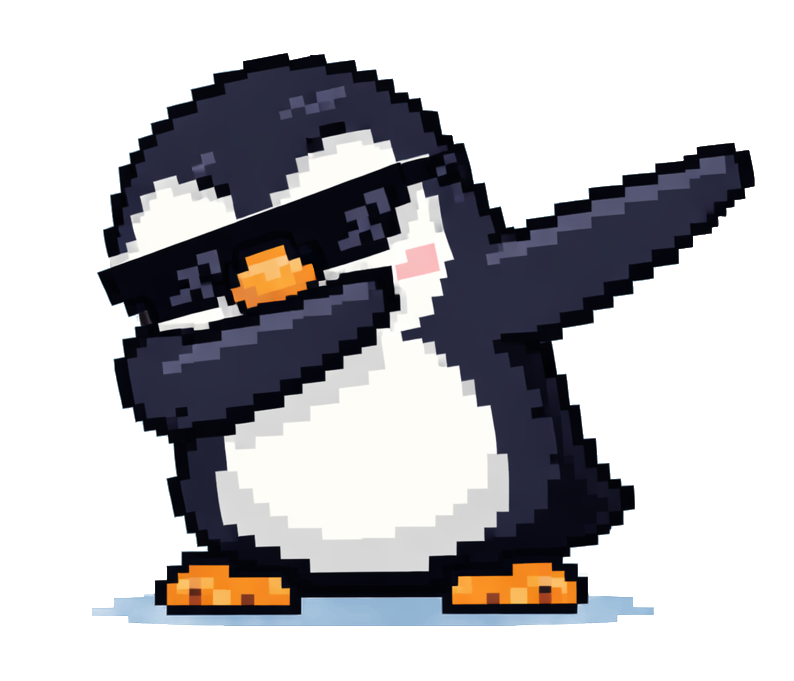
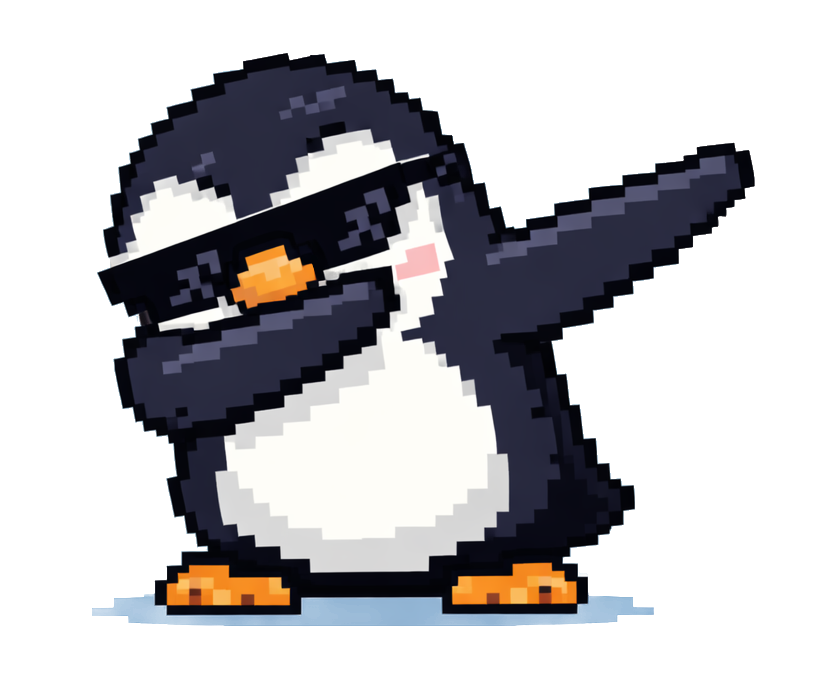
feat: add easter egg for 67 score

Changed region(s): [[0.1209, 0.0617, 0.9673, 0.9251], [0.4534, 0.7709, 0.5139, 0.8018], [0.3929, 0.7709, 0.4232, 0.8018]]

diff --git a/script/ShareImageGenerator.js b/script/ShareImageGenerator.js
@@ -83,7 +83,10 @@ class ShareImageGenerator {
             ]);
         } catch (_) { /* fall back to system-ui */ }
 
-        const penguinImg = await ShareImageGenerator.#loadShareImage('pingwinDab.png');
+        const penguinImageName = String(payload.score).includes('67')
+            ? 'pingwin67.png'
+            : 'pingwinDab.png';
+        const penguinImg = await ShareImageGenerator.#loadShareImage(penguinImageName);
 
         const WORD_SIZE = 28;
         const LINE_H = 46;          // stride per text line
@@ -227,13 +230,19 @@ class ShareImageGenerator {
 
         // penguin image
         const IMG_CELL_W = 285;
-        const IMG_W = 266;
-        const IMG_H = 250;
+        const IMG_MAX_W = 266;
+        const IMG_MAX_H = 250;
         if (penguinImg) {
+            const srcW = penguinImg.naturalWidth || penguinImg.width;
+            const srcH = penguinImg.naturalHeight || penguinImg.height;
+            const scale = Math.min(IMG_MAX_W / srcW, IMG_MAX_H / srcH);
+            const drawW = Math.round(srcW * scale);
+            const drawH = Math.round(srcH * scale);
+
             ctx.drawImage(penguinImg,
-                cardX + (IMG_CELL_W - IMG_W) / 2,
-                y + (CARD_H - IMG_H) / 2,
-                IMG_W, IMG_H
+                cardX + (IMG_CELL_W - drawW) / 2,
+                y + (CARD_H - drawH) / 2,
+                drawW, drawH
             );
         }
 
